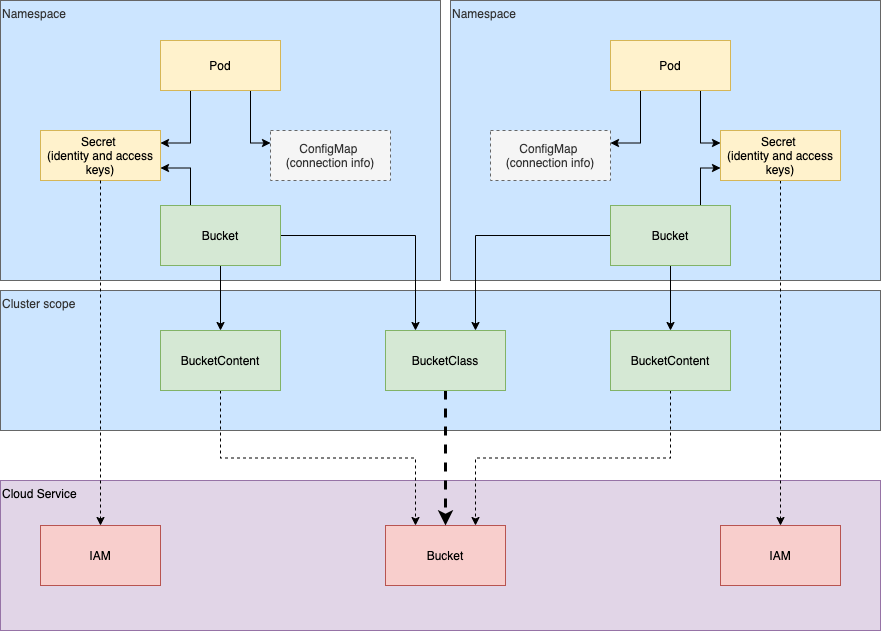
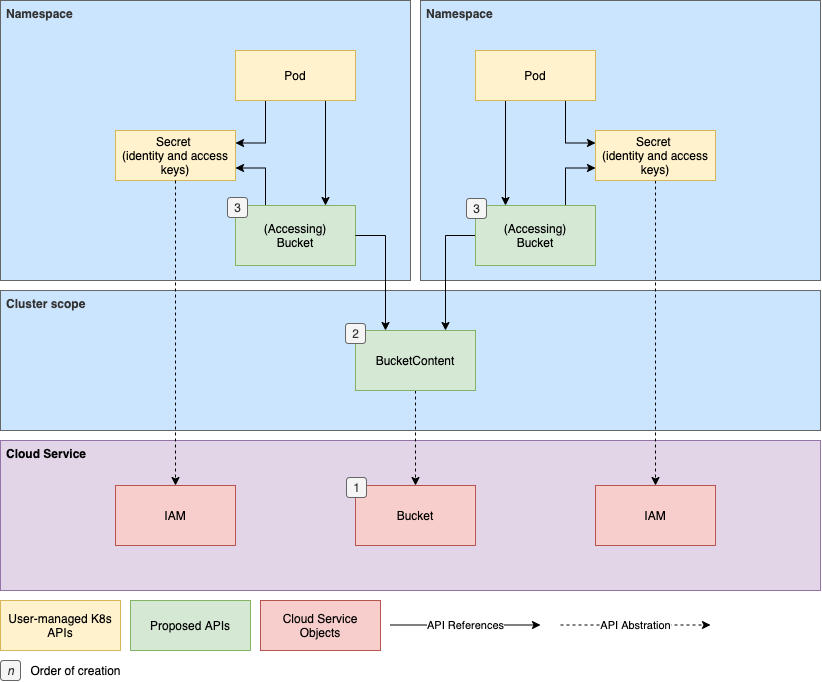
Promiscuous BucketContents (#13)
* updated diagrams to *:1

* condensed brownfield, same for all sub-cases

* tweaked provisioner secret section, still needs improvements

diff --git a/keps/sig-storage/20191125-bucket-provisioning.md b/keps/sig-storage/20191125-bucket-provisioning.md
@@ -33,10 +33,9 @@ status: provisional
       - [Admin](#admin)
       - [User](#user)
   - [API Relationships](#api-relationships)
-    - [Greenfield: Dynamic Bucket Creation](#greenfield-dynamic-bucket-creation)
-    - [Brownfield: Dynamic Bucket Access](#brownfield-dynamic-bucket-access)
-    - [Brownfield: Driverless Bucket Access](#brownfield-driverless-bucket-access)
-    - [Manually Managed Buckets](#manually-managed-buckets)
+    - [Greenfield](#greenfield)
+      - [Sharing Dynamically Created Buckets](#sharing-dynamically-created-buckets)
+    - [Brownfield](#brownfield)
     - [Provisioner Secrets](#provisioner-secrets)
   - [Custom Resource Definitions](#custom-resource-definitions)
       - [Bucket](#bucket)
@@ -46,7 +45,7 @@ status: provisional
 
 # Summary
 
-This proposal introduces Custom Resource Definitions (CRDs), for the purpose of standardizing object storage representations in Kubernetes.  Goals and non-goals set the scope for the proposal by defining higher level objectives.  The vocabulary section defines terminology.  User stories illustrate how these APIs may fulfill cluster user requirements.  Relationships between the APIs are provied to illustrate the interconnnections between object storage APIs, users' workloads, and object store service instances.  Lastly, the documents states the proposed API specs for the Bucket, BucketContent, and BucketClass objects.
+This proposal introduces Custom Resource Definitions (CRDs), for the purpose of standardizing object storage representations in Kubernetes.  Goals and non-goals set the scope for the proposal by defining higher level objectives.  The vocabulary section defines terminology.  User stories illustrate how these APIs may fulfill cluster user requirements.  Relationships between the APIs are provided to illustrate the interconnections between object storage APIs, users' workloads, and object store service instances.  Lastly, the documents states the proposed API specs for the Bucket, BucketContent, and BucketClass objects.
 
 ## Motivation
 
@@ -69,16 +68,15 @@ This proposal does _not_ include a standardized *protocol* or abstraction of sto
 + Define the _data-plane_ object store interface.
 + Precisely define automation around proposed bucket APIs
 + Manage user identities or roles
++ Create a bucket policy interface
 
 ##  Vocabulary
 
-+  _Brownfield Bucket_ - externally created and represented by a [BucketClass](#bucketclass) and managed by a provisioner.
++  _Brownfield Bucket_ - a bucket created out of band, to be represented in the cluster.
 + _Bucket_ - A user-namespaced custom resource representing an object store bucket.
-+  _BucketClass_ - A cluster-scoped custom resource containing fields defining the provisioner and an immutable parameter set.
-   + _In Greenfield_: an abstraction of new bucket provisioning.
-   + _In Brownfield_: an abstration of an single existing object store bucket.
++  _BucketClass_ - A cluster-scoped custom resource containing fields defining the provisioner and an immutable parameter set for creating a new bucket
 + _BucketContent_ - A cluster-scoped custom resource bound to a [Bucket](#bucket) and containing relevant metadata.
-+ _Greenfield Bucket_ - a created bucket whose lifecycle is managed a controller
++ _Greenfield Bucket_ - a bucket created by dynamically by automation
 +  _Object_ - An atomic, immutable unit of data stored in buckets.
 + _Driverless_ - a bucket manually defined by a user or admin with no installed provisioner.
 
@@ -98,28 +96,53 @@ This proposal does _not_ include a standardized *protocol* or abstraction of sto
 
 ## API Relationships
 
-The diagram below indicates the relationships, by reference, between the proposed APIs, the user facing Kubernetes primitives, and the actual storage and identity instances.  Bucket APIs bridge the gap between workloads and object stores, providing a standardized means of consuming object storage for Kubernetes controllers and workloads.
+The diagrams below illustrate the connections between the proposed APIs, the user facing Kubernetes primitives, and the actual storage and identity instances.
 
-Secrets are used to store the cluster user’s object store authn/authz information, to be passed to automation so that operations can be performed on the user’s behalf.
+Secrets are used to store the cluster user’s cloud service authn/authz information.
 
-- **Green** objects represent Bucket APIs.
-- **Yellow** objects represent user defined Kubernetes primitives
-- **Red** objects represent platform service instances (i.e. storage and users)
-- **Grey** objects represent *possible* connectors between the Bucket API and workloads.
+> Note: This proposal assumes an integration of Bucket APIs into Pods, similar to that of Volumes such that Pods may consume Buckets directly.  This is subject to change in the design and implementation of the Kubernetes controller(s) for these APIs.
 
-### Greenfield: Dynamic Bucket Creation
+### Greenfield
 
-In an automated system where bucket lifecycles are managed by a controller, a user will define a [Bucket](#bucket), containing a reference a [Bucket Class](#bucketclass).  Bucket Classes are admin-created objects representing a preset configuration for bucket creation.  A [Bucket Content](#bucketcontent) object is generated and encapsulates all configuration information from the BucketClass and Bucket.  The BucketContent will store all necessary information about the provisioned storage instance, including connection data.
+In an automated system where bucket lifecycles are managed by a controller:
 
+1. A BucketClass is defined to enable the provisioning of object store storage, with a specified configuration.
 
+2. A user will define a [Bucket](#bucket) with the [BucketClass](#bucketclass) specified.  
+
+3. A [BucketContent](#bucketcontent) is instantiated and encapsulates all configuration information from the BucketClass and Bucket.  The BucketContent will store all necessary information about the provisioned storage instance, including connection data.  Credentials and other sensitive information should not be stored in a BucketContent.  
+
+4. A driver will then provision the object storage and return the connection information, to be written to the BucketContent.
+
+   
 
 ![](./bucket-greenfield-api-relations.png)
 
-### Brownfield: Dynamic Bucket Access
 
-The expected workflow for interacting with a pre-existing storage instance is similar to [Greenfield](#). The key distinction in this scenario is that a Bucket Class will reference a single, pre-existing bucket directly (indicated by the bold dashed line).  The key values for specifying storage instances should be made in the BucketClass’s parameters.  
 
-BucketContent objects will be created for Buckets, with the connection information for the storage instance populated from the BucketClass’s .  As part of this operation, the identity specified in the Bucket’s Secret should be granted permission to access the storage instance.  This operation should be configurable through the BucketClass parameters.
+#### Sharing Dynamically Created Buckets
+
+Once a [BucketContent](#bucketcontent) is created, it is discoverable by other users in the cluster.  
+
+5. In order to access the BucketContent, a user may create a [Bucket](#bucket) that specifies the BucketContent by name.
+
+> Note: Per [Non-Goals](#non-goals), access management is not within the scope of this KEP.  ACLs, access policies, and credentialing should be handled out of band.
+
+
+
+![](./bucket-greenfield-api-relations-sharing.png)
+
+
+
+### Brownfield
+
+“Brownfield” describes any case where the bucket already exists in the cloud service and is *not yet represented* by a [BucketContent](#bucketcontent) instance.  In order to publish the cloud service bucket to the cluster:
+
+1. The bucket should already be provisioned in the cloud service.
+1. A BucketContent is created to represent the provisioned bucket.  
+1. Once done, Bucket API instances may be created by users, specifying the desired BucketContent.
+
+>  Note: Per [Non-Goals](#non-goals), access management is not within the scope of this KEP.  ACLs, access policies, and credentialing should be handled out of band.  BucketContents may be configured to whitelist access for specific namespaces.
 
 
 
@@ -127,32 +150,15 @@ BucketContent objects will be created for Buckets, with the connection informati
 
 
 
-### Brownfield: Driverless Bucket Access
-
-Clusters with a bucket controller deployed but without a provisioner to manage backend bucket operations may still support pseudo-dynamic bucket access.  Similar to the [Brownfield: Dynamic Bucket Access](#greenfield-dynamic-bucket-creation), the BucketClass will specify a single pre-existing bucket.
-
-The key difference in this case is that without a driver to communicate with an object store, operations such as adding an identity to an ACL or managing bucket polices are not possible.  As such, applications must have credentials that are permissioned to access the backing bucket.  The API will serve purely as a representation of the bucket.
-
-### Manually Managed Buckets
-
-Clusters with zero automation around the API still benefit from it when deploying Bucket aware workload-orchistrating controllers.   This case is releveant as it’s likely to be the first step towards adoption for some users.  The app will In this case, admins would define BucketContents themselves and users would create Buckets with a prefilled `bucketContentRef` specifying the BucketContent.  After that, a workload controller would be ready to inject connection and credential data from the BucketContent into the worker pods.
-
-![](/Users/jcope/Workspace/go/src/github.com/yard-turkey/enhancements/keps/sig-storage/bucket-static-api-relation.png)
-
-
-
 ### Provisioner Secrets
 
 Per [Non-Goals](#non-goals), it is not within the scope of the proposal to abstract IAM operations.  Instead, provisioner and user credentials should be provided to automation by admins or users.  
 
-BucketClass.Parameter key values are used to specify Secret name and namespace.  These may be considered of different degrees of granularity.
+To allow for flexibility in authorizing provisioner operations, credentials may be provided to the provisioner in several ways.
 
-- **Per Provisioner:** the Secret is used for all provisioning operations.  These Secrets should be injected directly in provisioner containers via [common Kubernetes patterns](https://kubernetes.io/docs/tasks/inject-data-application/distribute-credentials-secure/).
-- **Per Operation/Bucket:** Secret’s data is passed to provisioners per operation or Bucket.  These Secrets should be defined as BucketClass parameters.  The keys should be clearly defined during automation design.
+- **Per Provisioner:** the Secret is used for all provisioning operations, for the lifetime of the provisioner.  These Secrets should be injected directly into the provisioner's container via [common Kubernetes patterns](https://kubernetes.io/docs/tasks/inject-data-application/distribute-credentials-secure/).
 
-This model should support both plain string values as well as “templates.”  Plain string values will allow admins to specify a particular Secret by name and namespace.  The key values should provide a means of defining *provisioner* credentials as well as *user* credentials.  User credentials may be required in cases where a user is being granted access to an existing bucket or when a user has permissions to create buckets themselves.
-
-As an example, the following key’s represent a minimun of what automation should support.  `provisioner-secret*` keys specify Secret to be used for bucket operations.  `user-secret-*` keys specify Secrets containing user identity information.
+Credentials may also be specified at more granular levels in order to allow for context dependent keys.  E.g. When authorization differs between BucketClasses or between individual operations.  This may be facilitated by defining a set of string keys which the core automation will be aware of, so that Secrets may be referenced by BucketClasses.  For example:
 
 ```yaml
 cosi.io/provisioner-secret-name:
@@ -161,14 +167,30 @@ cosi.io/user-secret-name:
 cosi.io/user-secret-namespace:
 ```
 
-Bucket automation should support templating of Secret names and namespaces. For example:
+- **Per BucketClass:** A secret may be made specific to a BucketClass.  This suits cases where authorization may be segregated in the object store.  The Secret may then be defined explicitly in the `bucketClass.parameters` map.
 
-```yaml
-cosi.io/user-secret-name: "${bucket.name}"
-cosi.io/user-secret-namespace: "${bucket.namespace}-region-west"
-```
+  ```yaml
+  cosi.io/provisioner-secret-name: "foo"
+  cosi.io/provisioner-secret-namespace: "bar"	
+  ```
 
-> Note: Annotation key templates are not mentioned as of yet.  However, need for them may arise during automation design.
+- **Per Operation/Bucket:** Unique credentials are passed per Bucket or operation. In order to support dynamic Secret naming, templating similar to [CSI Secret templating](https://kubernetes-csi.github.io/docs/secrets-and-credentials-storage-class.html) may be used.  E.g.
+
+  ```yaml
+  "${bucket.name}"
+  "${bucket.namespace}"
+  ```
+  
+  Admins may then define a BucketClass with the following parameters included:
+
+  *Per Bucket Operation*
+  
+  ```yaml
+  cosi.io/provisioner-secret-name: "${bucket.name}"
+  cosi.io/provisioner-secret-namespace: "${bucket.namespace}"	
+  ```
+
+
 
 ## Custom Resource Definitions
 
@@ -191,7 +213,7 @@ spec:
   protocol: [3]
   bucketPrefix: [4]
   bucketClassName: [5]
-  accessSecretName: [6]
+  secretName: [6]
 status:
   bucketContentName: [7]
   phase: [8]
@@ -202,7 +224,7 @@ status:
 1. `protocol`: specifies the desired protocol.  One of {“s3”, “gcs”, or “azureBlob”}.
 1. `bucketPrefix`: (Optional) prefix prepended to a randomly generated bucket name, eg. "YosemitePhotos-". If empty no prefix is appended.
 1. `bucketClassName`: Name of the target `BucketClass`.
-1. `userSecretName`: (optional) Secret in the Bucket’s namespace storing credentials to be used by a workload for bucket access.
+1. `secretName`: (optional) Secret in the Bucket’s namespace storing credentials to be used by a workload for bucket access.
 1. `bucketContentName`: Name of a bound `BucketContent`.
 1. `phase`: 
    - *Pending*: The controller has detected the new `Bucket` and begun provisioning operations
@@ -283,8 +305,6 @@ status:
 #### BucketClass
 
 A cluster-scoped custom resource used to describe both greenfield and brownfield buckets.  The `BucketClass` defines a release policy, and specifies driver specific parameters and the provisioner name. The `provisioner` value is used by sidecars to filter `BucketContent` objects.
-
-There is currently no default bucket class.
 
 ```yaml
 apiVersion: cosi.io/v1alpha1
